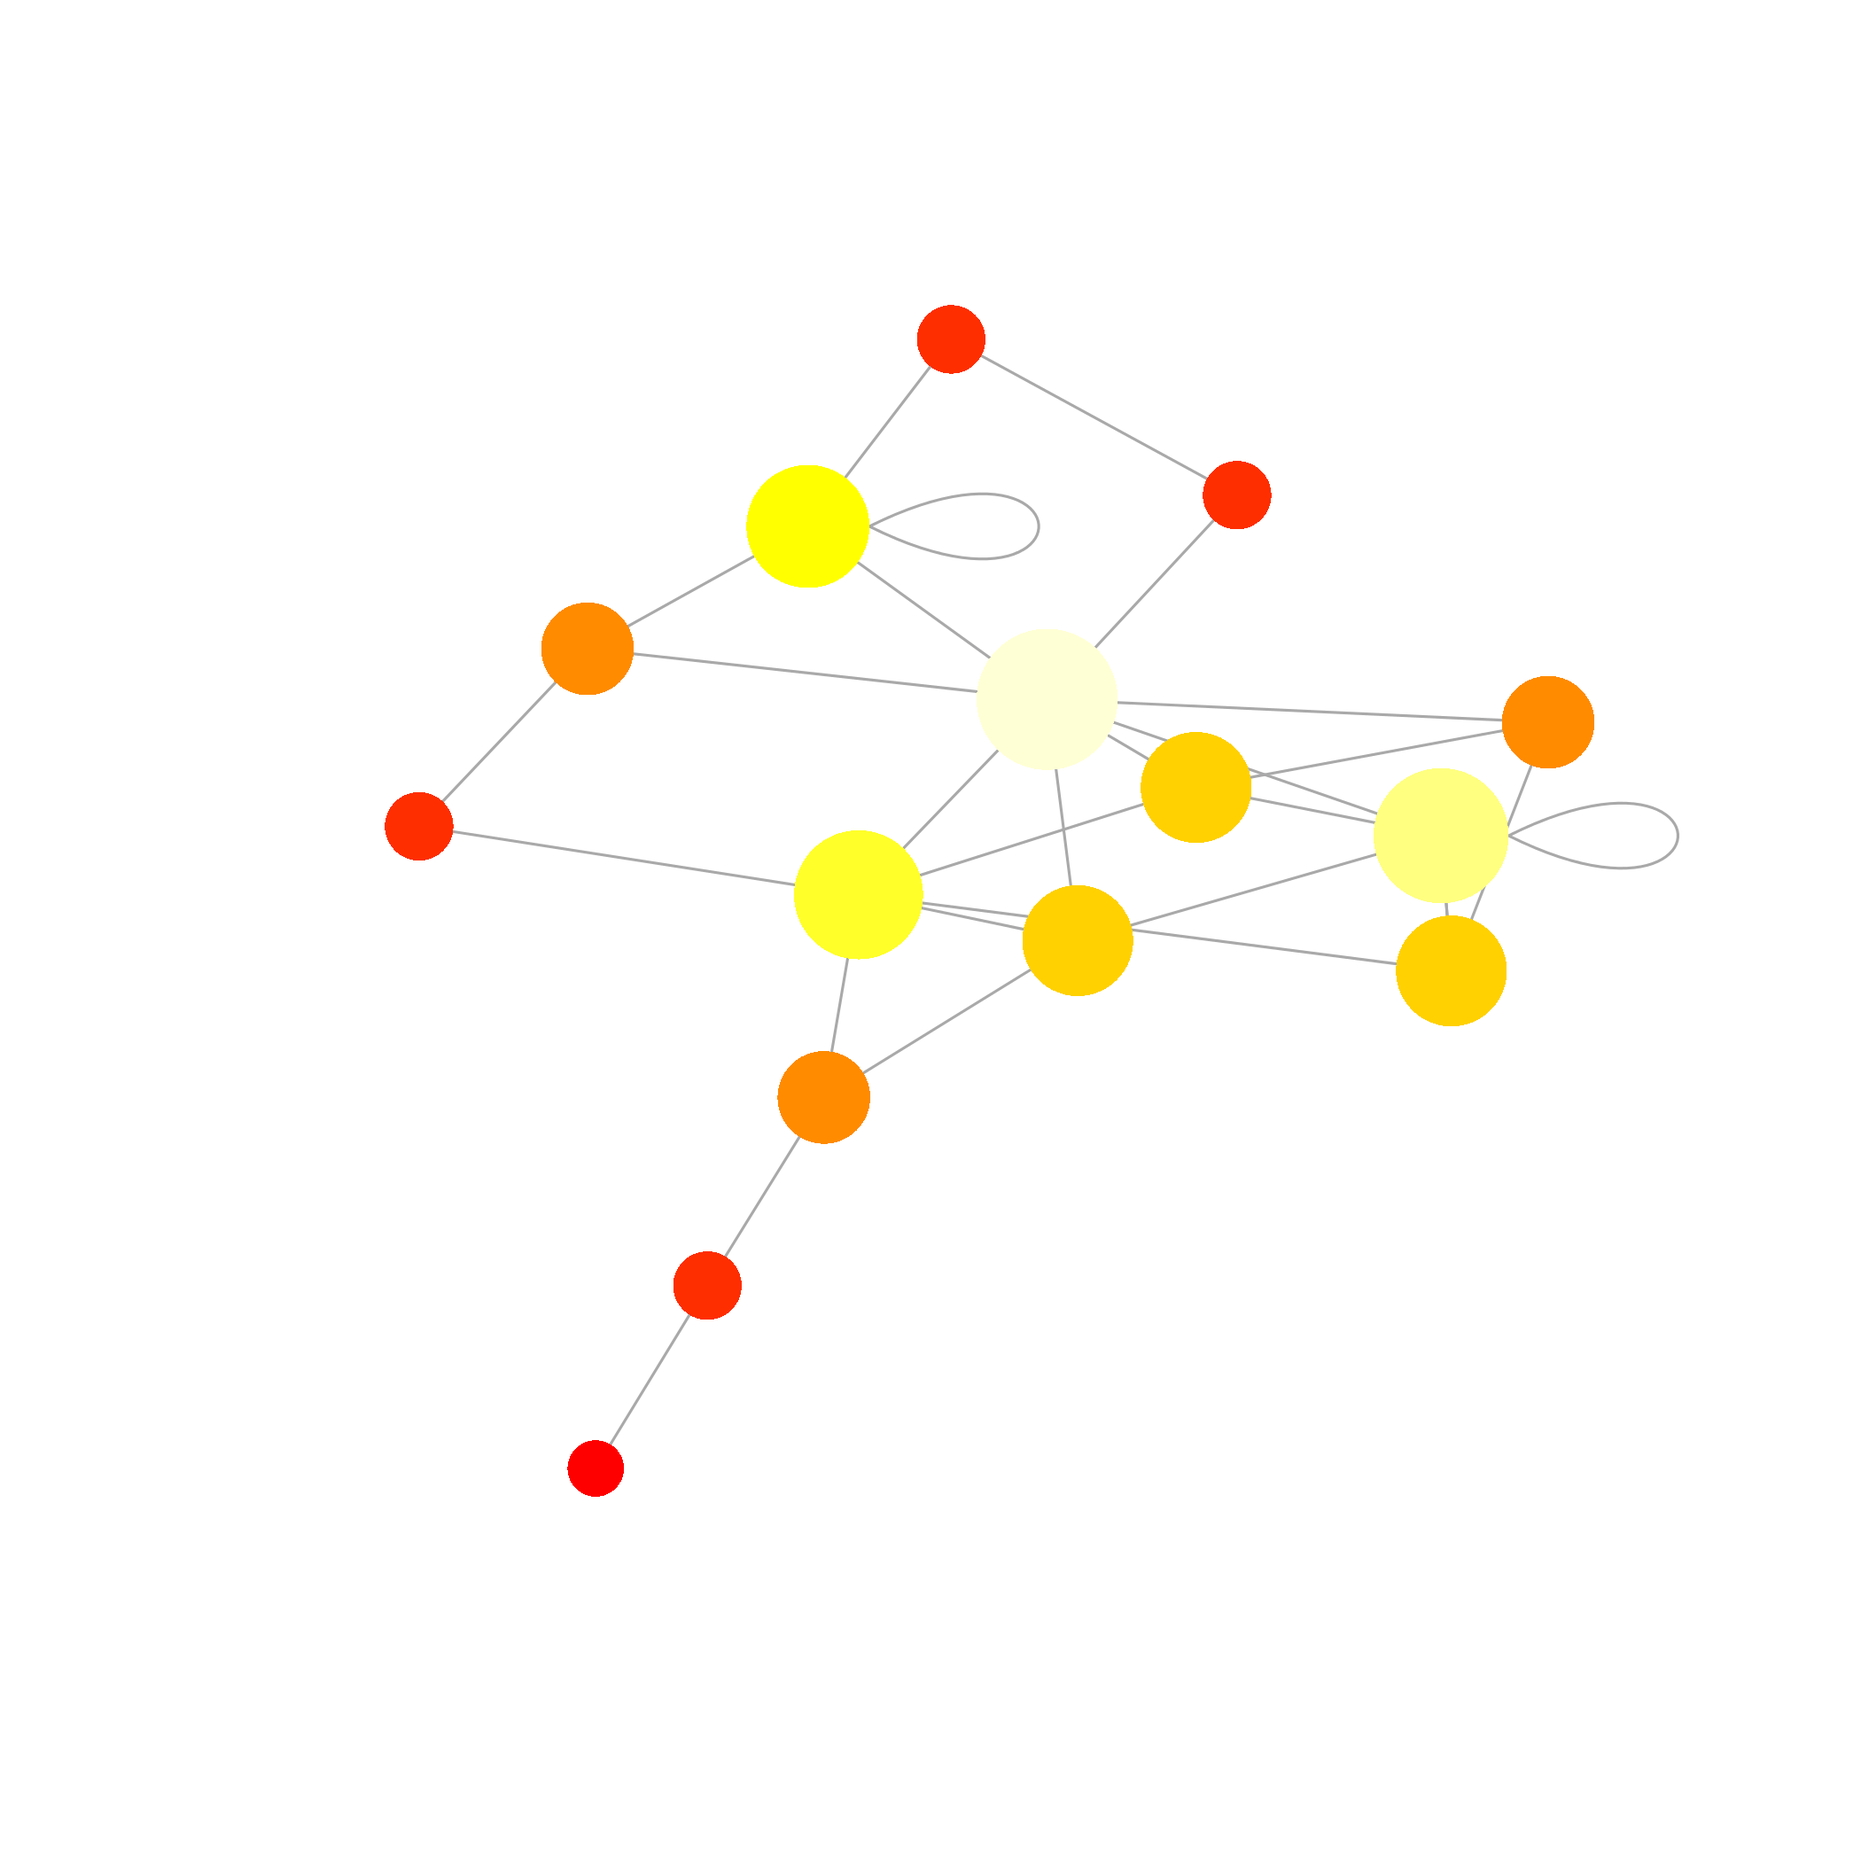
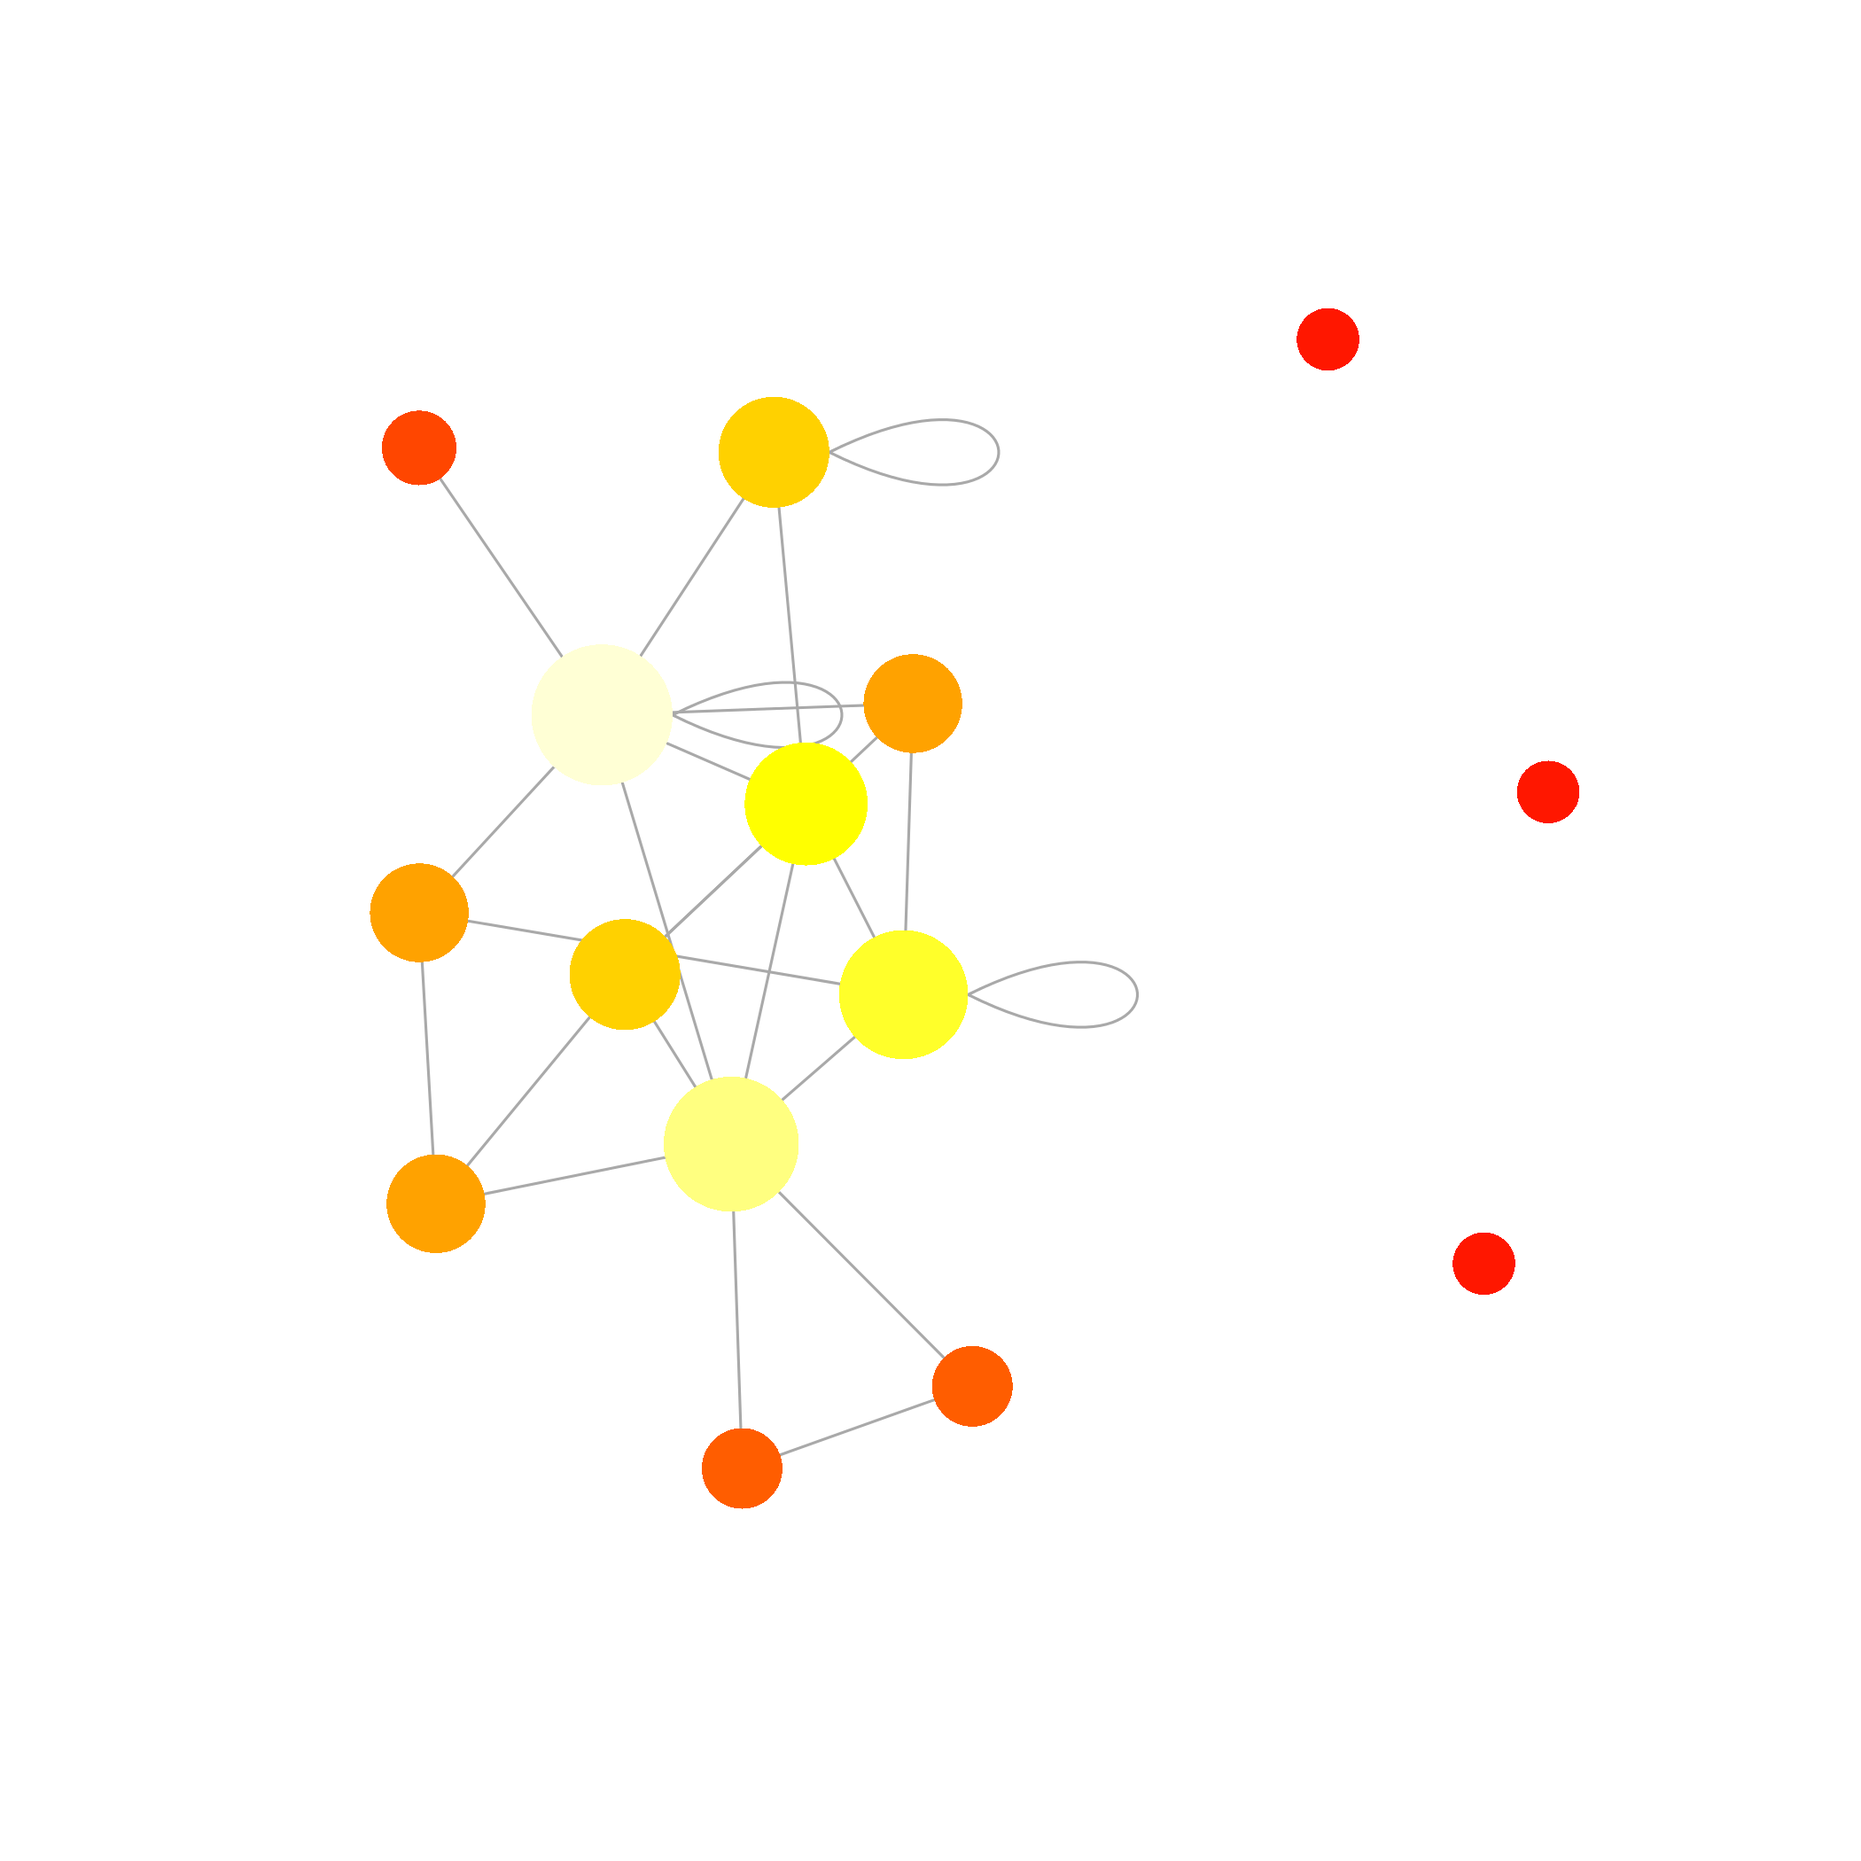
Update the slides

diff --git a/cours5/index.html b/cours5/index.html
@@ -940,7 +940,7 @@ L[runif(S*S) &lt; C] = 1
 sum(L)
 </code></pre>
 
-<pre><code>## [1] 28
+<pre><code>## [1] 24
 </code></pre>
 
 <pre><code class="r">g &lt;- graph.adjacency(L)
@@ -1116,7 +1116,7 @@ plot(g, vertex.label=NA, edge.arrow.mode = 0,
 modularity(wtc)
 </code></pre>
 
-<pre><code>## [1] 0.2512755
+<pre><code>## [1] 0.1996528
 </code></pre>
 
   </article>
@@ -1134,37 +1134,37 @@ modularity(wtc)
 </code></pre>
 
 <pre><code>##       [,1] [,2] [,3] [,4] [,5] [,6] [,7] [,8] [,9] [,10] [,11] [,12] [,13]
-##  [1,]    0    1    1    2    4    2    3    3    2     2     3     2     1
-##  [2,]    1    0    2    1    4    1    2    3    2     1     2     1     1
-##  [3,]    1    2    0    3    4    1    4    3    2     3     2     1     2
-##  [4,]    2    1    3    0    5    2    1    4    3     2     3     2     2
-##  [5,]    4    4    4    5    0    5    6    1    2     5     4     3     3
-##  [6,]    2    1    1    2    5    0    3    4    3     2     3     2     2
-##  [7,]    3    2    4    1    6    3    0    5    4     2     3     3     3
-##  [8,]    3    3    3    4    1    4    5    0    1     4     3     2     2
-##  [9,]    2    2    2    3    2    3    4    1    0     3     2     1     1
-## [10,]    2    1    3    2    5    2    2    4    3     0     1     2     2
-## [11,]    3    2    2    3    4    3    3    3    2     1     0     1     2
-## [12,]    2    1    1    2    3    2    3    2    1     2     1     0     1
-## [13,]    1    1    2    2    3    2    3    2    1     2     2     1     0
-## [14,]    1    1    2    2    4    1    3    3    2     2     2     1     2
-## [15,]    2    1    3    2    5    2    1    4    3     1     2     2     2
+##  [1,]    0    2    3    2    3    1    2    2  Inf   Inf     3     2     1
+##  [2,]    2    0    2    1    1    1    1    2  Inf   Inf     2     1     2
+##  [3,]    3    2    0    1    2    2    2    1  Inf   Inf     2     1     3
+##  [4,]    2    1    1    0    1    1    2    2  Inf   Inf     1     2     2
+##  [5,]    3    1    2    1    0    2    2    3  Inf   Inf     2     2     3
+##  [6,]    1    1    2    1    2    0    1    1  Inf   Inf     2     1     1
+##  [7,]    2    1    2    2    2    1    0    1  Inf   Inf     3     2     2
+##  [8,]    2    2    1    2    3    1    1    0  Inf   Inf     3     2     2
+##  [9,]  Inf  Inf  Inf  Inf  Inf  Inf  Inf  Inf    0   Inf   Inf   Inf   Inf
+## [10,]  Inf  Inf  Inf  Inf  Inf  Inf  Inf  Inf  Inf     0   Inf   Inf   Inf
+## [11,]    3    2    2    1    2    2    3    3  Inf   Inf     0     3     3
+## [12,]    2    1    1    2    2    1    2    2  Inf   Inf     3     0     2
+## [13,]    1    2    3    2    3    1    2    2  Inf   Inf     3     2     0
+## [14,]    3    2    2    1    2    2    1    2  Inf   Inf     2     1     3
+## [15,]  Inf  Inf  Inf  Inf  Inf  Inf  Inf  Inf  Inf   Inf   Inf   Inf   Inf
 ##       [,14] [,15]
-##  [1,]     1     2
-##  [2,]     1     1
-##  [3,]     2     3
-##  [4,]     2     2
-##  [5,]     4     5
-##  [6,]     1     2
-##  [7,]     3     1
-##  [8,]     3     4
-##  [9,]     2     3
-## [10,]     2     1
-## [11,]     2     2
-## [12,]     1     2
-## [13,]     2     2
-## [14,]     0     2
-## [15,]     2     0
+##  [1,]     3   Inf
+##  [2,]     2   Inf
+##  [3,]     2   Inf
+##  [4,]     1   Inf
+##  [5,]     2   Inf
+##  [6,]     2   Inf
+##  [7,]     1   Inf
+##  [8,]     2   Inf
+##  [9,]   Inf   Inf
+## [10,]   Inf   Inf
+## [11,]     2   Inf
+## [12,]     1   Inf
+## [13,]     3   Inf
+## [14,]     0   Inf
+## [15,]   Inf     0
 </code></pre>
 
   </article>
@@ -1181,9 +1181,9 @@ modularity(wtc)
 <pre><code class="r">eigen_centrality(g)$vector
 </code></pre>
 
-<pre><code>##  [1] 1.00000000 0.97110588 0.69382192 0.23529591 0.01492329 0.50117127
-##  [7] 0.13341842 0.07005279 0.31391798 0.33988968 0.23340588 0.75576246
-## [13] 0.64777622 0.68766663 0.39099585
+<pre><code>##  [1] 2.623864e-01 8.474905e-01 4.928032e-01 1.000000e+00 5.220160e-01
+##  [6] 9.286236e-01 6.059889e-01 4.466514e-01 4.320250e-17 4.320250e-17
+## [11] 2.203058e-01 7.902539e-01 2.623864e-01 5.279062e-01 4.320250e-17
 </code></pre>
 
   </article>

diff --git a/cours4/index.html b/cours4/index.html
@@ -170,7 +170,7 @@
      <p>C&#39;est un système qui permet de suivre l&#39;ajout et les modifications pour un ensemble de fichier. <strong>C&#39;est le cahier de lab du programmeur.</strong></p>
 
 <ul>
-<li>Logiciel libre soutenu par une large communautée (12 millions d&#39;utilisateurs dans le monde)</li>
+<li>Logiciel libre soutenu par une large communauté (12 millions d&#39;utilisateurs dans le monde)</li>
 <li>Par défault, Git est installé sur les systèmes d&#39;exploitation Linux et Mac.</li>
 <li>Il peut être installé sur Windows: <a href="https://git-scm.com/download/win">https://git-scm.com/download/win</a></li>
 </ul>
@@ -252,7 +252,7 @@ ls -a # Lister tous le contenu du répertoire de travail.
 <li><code>git commit -m &quot;mon commentaire&quot;</code></li>
 </ol>
 
-<p>On répète ces étapes à plusieurs reprises au cours de l&#39;écriture d&#39;un document et/ou de l&#39;avancé d&#39;un projet.</p>
+<p>On répète ces étapes à plusieurs reprises au cours de l&#39;écriture d&#39;un document et/ou de l&#39;avancement d&#39;un projet.</p>
 
 <p><strong>Question</strong>: Qu&#39;est ce qu&#39;un bon commentaire?</p>
 
@@ -265,7 +265,7 @@ ls -a # Lister tous le contenu du répertoire de travail.
     <h1>Git status</h1>
   </hgroup>
   <article data-timings="">
-    <p>Votre meilleur ami, <code>git status</code>, permet de prendre connaissance de l&#39;état de notre dépôt Git.</p>
+    <p>Votre meilleur ami, <code>git status</code>, permet de prendre connaissance de l&#39;état de votre dépôt Git.</p>
 
 <pre><code class="bash">Sur la branche master
 
@@ -354,8 +354,8 @@ les suivre).
     <div class='right' style='float:right;width:48%'>
      <ul>
 <li>Une branche (<code>master</code> par défault): c&#39;est un série de commentaires (<code>commit</code>)</li>
-<li>Le dernier commentaire (<code>commit</code>) est ce que l&#39;on appelle la tête de la brance (<code>HEAD</code>), elle contient la version la plus à jour des fichiers.</li>
-<li>À chaque commentaire d&#39;édition (<code>commit</code>) est attaché une version des fichiers.</li>
+<li>Le dernier commentaire (<code>commit</code>) est ce que l&#39;on appelle la tête de la branche (<code>HEAD</code>), elle contient la version la plus à jour des fichiers.</li>
+<li>À chaque commentaire d&#39;édition (<code>commit</code>) est attachée une version des fichiers.</li>
 </ul>
 
     </div>
@@ -501,7 +501,7 @@ Date:   Wed Feb 28 20:33:20 2018 -0500
     <h1>Les serveurs Git distants</h1>
   </hgroup>
   <article data-timings="">
-    <p>Il éxiste plusieurs d&#39;entreprise offrant des services gratuits pour héberger votre dépôt:</p>
+    <p>Il existe plusieurs entreprises offrant des services gratuits pour héberger votre dépôt:</p>
 
 <ul>
 <li><a href="https://about.gitlab.com/">Gitlab</a>: Serveur hébergeable dans votre infrastructure.</li>

diff --git a/cours5/index.md b/cours5/index.md
@@ -660,7 +660,7 @@ sum(L)
 ```
 
 ```
-## [1] 28
+## [1] 24
 ```
 
 ```r
@@ -802,7 +802,7 @@ modularity(wtc)
 ```
 
 ```
-## [1] 0.2512755
+## [1] 0.1996528
 ```
 
 ---
@@ -818,37 +818,37 @@ distances(g)
 
 ```
 ##       [,1] [,2] [,3] [,4] [,5] [,6] [,7] [,8] [,9] [,10] [,11] [,12] [,13]
-##  [1,]    0    1    1    2    4    2    3    3    2     2     3     2     1
-##  [2,]    1    0    2    1    4    1    2    3    2     1     2     1     1
-##  [3,]    1    2    0    3    4    1    4    3    2     3     2     1     2
-##  [4,]    2    1    3    0    5    2    1    4    3     2     3     2     2
-##  [5,]    4    4    4    5    0    5    6    1    2     5     4     3     3
-##  [6,]    2    1    1    2    5    0    3    4    3     2     3     2     2
-##  [7,]    3    2    4    1    6    3    0    5    4     2     3     3     3
-##  [8,]    3    3    3    4    1    4    5    0    1     4     3     2     2
-##  [9,]    2    2    2    3    2    3    4    1    0     3     2     1     1
-## [10,]    2    1    3    2    5    2    2    4    3     0     1     2     2
-## [11,]    3    2    2    3    4    3    3    3    2     1     0     1     2
-## [12,]    2    1    1    2    3    2    3    2    1     2     1     0     1
-## [13,]    1    1    2    2    3    2    3    2    1     2     2     1     0
-## [14,]    1    1    2    2    4    1    3    3    2     2     2     1     2
-## [15,]    2    1    3    2    5    2    1    4    3     1     2     2     2
+##  [1,]    0    2    3    2    3    1    2    2  Inf   Inf     3     2     1
+##  [2,]    2    0    2    1    1    1    1    2  Inf   Inf     2     1     2
+##  [3,]    3    2    0    1    2    2    2    1  Inf   Inf     2     1     3
+##  [4,]    2    1    1    0    1    1    2    2  Inf   Inf     1     2     2
+##  [5,]    3    1    2    1    0    2    2    3  Inf   Inf     2     2     3
+##  [6,]    1    1    2    1    2    0    1    1  Inf   Inf     2     1     1
+##  [7,]    2    1    2    2    2    1    0    1  Inf   Inf     3     2     2
+##  [8,]    2    2    1    2    3    1    1    0  Inf   Inf     3     2     2
+##  [9,]  Inf  Inf  Inf  Inf  Inf  Inf  Inf  Inf    0   Inf   Inf   Inf   Inf
+## [10,]  Inf  Inf  Inf  Inf  Inf  Inf  Inf  Inf  Inf     0   Inf   Inf   Inf
+## [11,]    3    2    2    1    2    2    3    3  Inf   Inf     0     3     3
+## [12,]    2    1    1    2    2    1    2    2  Inf   Inf     3     0     2
+## [13,]    1    2    3    2    3    1    2    2  Inf   Inf     3     2     0
+## [14,]    3    2    2    1    2    2    1    2  Inf   Inf     2     1     3
+## [15,]  Inf  Inf  Inf  Inf  Inf  Inf  Inf  Inf  Inf   Inf   Inf   Inf   Inf
 ##       [,14] [,15]
-##  [1,]     1     2
-##  [2,]     1     1
-##  [3,]     2     3
-##  [4,]     2     2
-##  [5,]     4     5
-##  [6,]     1     2
-##  [7,]     3     1
-##  [8,]     3     4
-##  [9,]     2     3
-## [10,]     2     1
-## [11,]     2     2
-## [12,]     1     2
-## [13,]     2     2
-## [14,]     0     2
-## [15,]     2     0
+##  [1,]     3   Inf
+##  [2,]     2   Inf
+##  [3,]     2   Inf
+##  [4,]     1   Inf
+##  [5,]     2   Inf
+##  [6,]     2   Inf
+##  [7,]     1   Inf
+##  [8,]     2   Inf
+##  [9,]   Inf   Inf
+## [10,]   Inf   Inf
+## [11,]     2   Inf
+## [12,]     1   Inf
+## [13,]     3   Inf
+## [14,]     0   Inf
+## [15,]   Inf     0
 ```
 
 ---
@@ -863,9 +863,9 @@ eigen_centrality(g)$vector
 ```
 
 ```
-##  [1] 1.00000000 0.97110588 0.69382192 0.23529591 0.01492329 0.50117127
-##  [7] 0.13341842 0.07005279 0.31391798 0.33988968 0.23340588 0.75576246
-## [13] 0.64777622 0.68766663 0.39099585
+##  [1] 2.623864e-01 8.474905e-01 4.928032e-01 1.000000e+00 5.220160e-01
+##  [6] 9.286236e-01 6.059889e-01 4.466514e-01 4.320250e-17 4.320250e-17
+## [11] 2.203058e-01 7.902539e-01 2.623864e-01 5.279062e-01 4.320250e-17
 ```
 
 --- .transition

diff --git a/cours4/index.md b/cours4/index.md
@@ -94,7 +94,7 @@ Ses difficultées techniques:
 
 C'est un système qui permet de suivre l'ajout et les modifications pour un ensemble de fichier. **C'est le cahier de lab du programmeur.**
 
-- Logiciel libre soutenu par une large communautée (12 millions d'utilisateurs dans le monde)
+- Logiciel libre soutenu par une large communauté (12 millions d'utilisateurs dans le monde)
 - Par défault, Git est installé sur les systèmes d'exploitation Linux et Mac.
 - Il peut être installé sur Windows: [https://git-scm.com/download/win](https://git-scm.com/download/win)
 
@@ -153,7 +153,7 @@ On modifie le ou les fichiers, on ajoute la modification à Git puis on met un c
 2. `git add monFichier1.txt monFichier2.txt`
 3. `git commit -m "mon commentaire"`
 
-On répète ces étapes à plusieurs reprises au cours de l'écriture d'un document et/ou de l'avancé d'un projet.
+On répète ces étapes à plusieurs reprises au cours de l'écriture d'un document et/ou de l'avancement d'un projet.
 
 **Question**: Qu'est ce qu'un bon commentaire?
 
@@ -161,7 +161,7 @@ On répète ces étapes à plusieurs reprises au cours de l'écriture d'un docum
 
 # Git status
 
-Votre meilleur ami, `git status`, permet de prendre connaissance de l'état de notre dépôt Git.
+Votre meilleur ami, `git status`, permet de prendre connaissance de l'état de votre dépôt Git.
 
 ```bash
 Sur la branche master
@@ -228,8 +228,8 @@ les suivre).
 *** =right
 
 - Une branche (`master` par défault): c'est un série de commentaires (`commit`)
-- Le dernier commentaire (`commit`) est ce que l'on appelle la tête de la brance (`HEAD`), elle contient la version la plus à jour des fichiers.
-- À chaque commentaire d'édition (`commit`) est attaché une version des fichiers.
+- Le dernier commentaire (`commit`) est ce que l'on appelle la tête de la branche (`HEAD`), elle contient la version la plus à jour des fichiers.
+- À chaque commentaire d'édition (`commit`) est attachée une version des fichiers.
 
 ---
 
@@ -340,7 +340,7 @@ Jusqu'à présent nous avons travaillé localement sur votre ordinateur. Il est 
 
 # Les serveurs Git distants
 
-Il éxiste plusieurs d'entreprise offrant des services gratuits pour héberger votre dépôt:
+Il existe plusieurs entreprises offrant des services gratuits pour héberger votre dépôt:
 
 - [Gitlab](https://about.gitlab.com/): Serveur hébergeable dans votre infrastructure.
 - [Bitbucket](https://bitbucket.org/): Gratuit avec dépot privé illimité.
